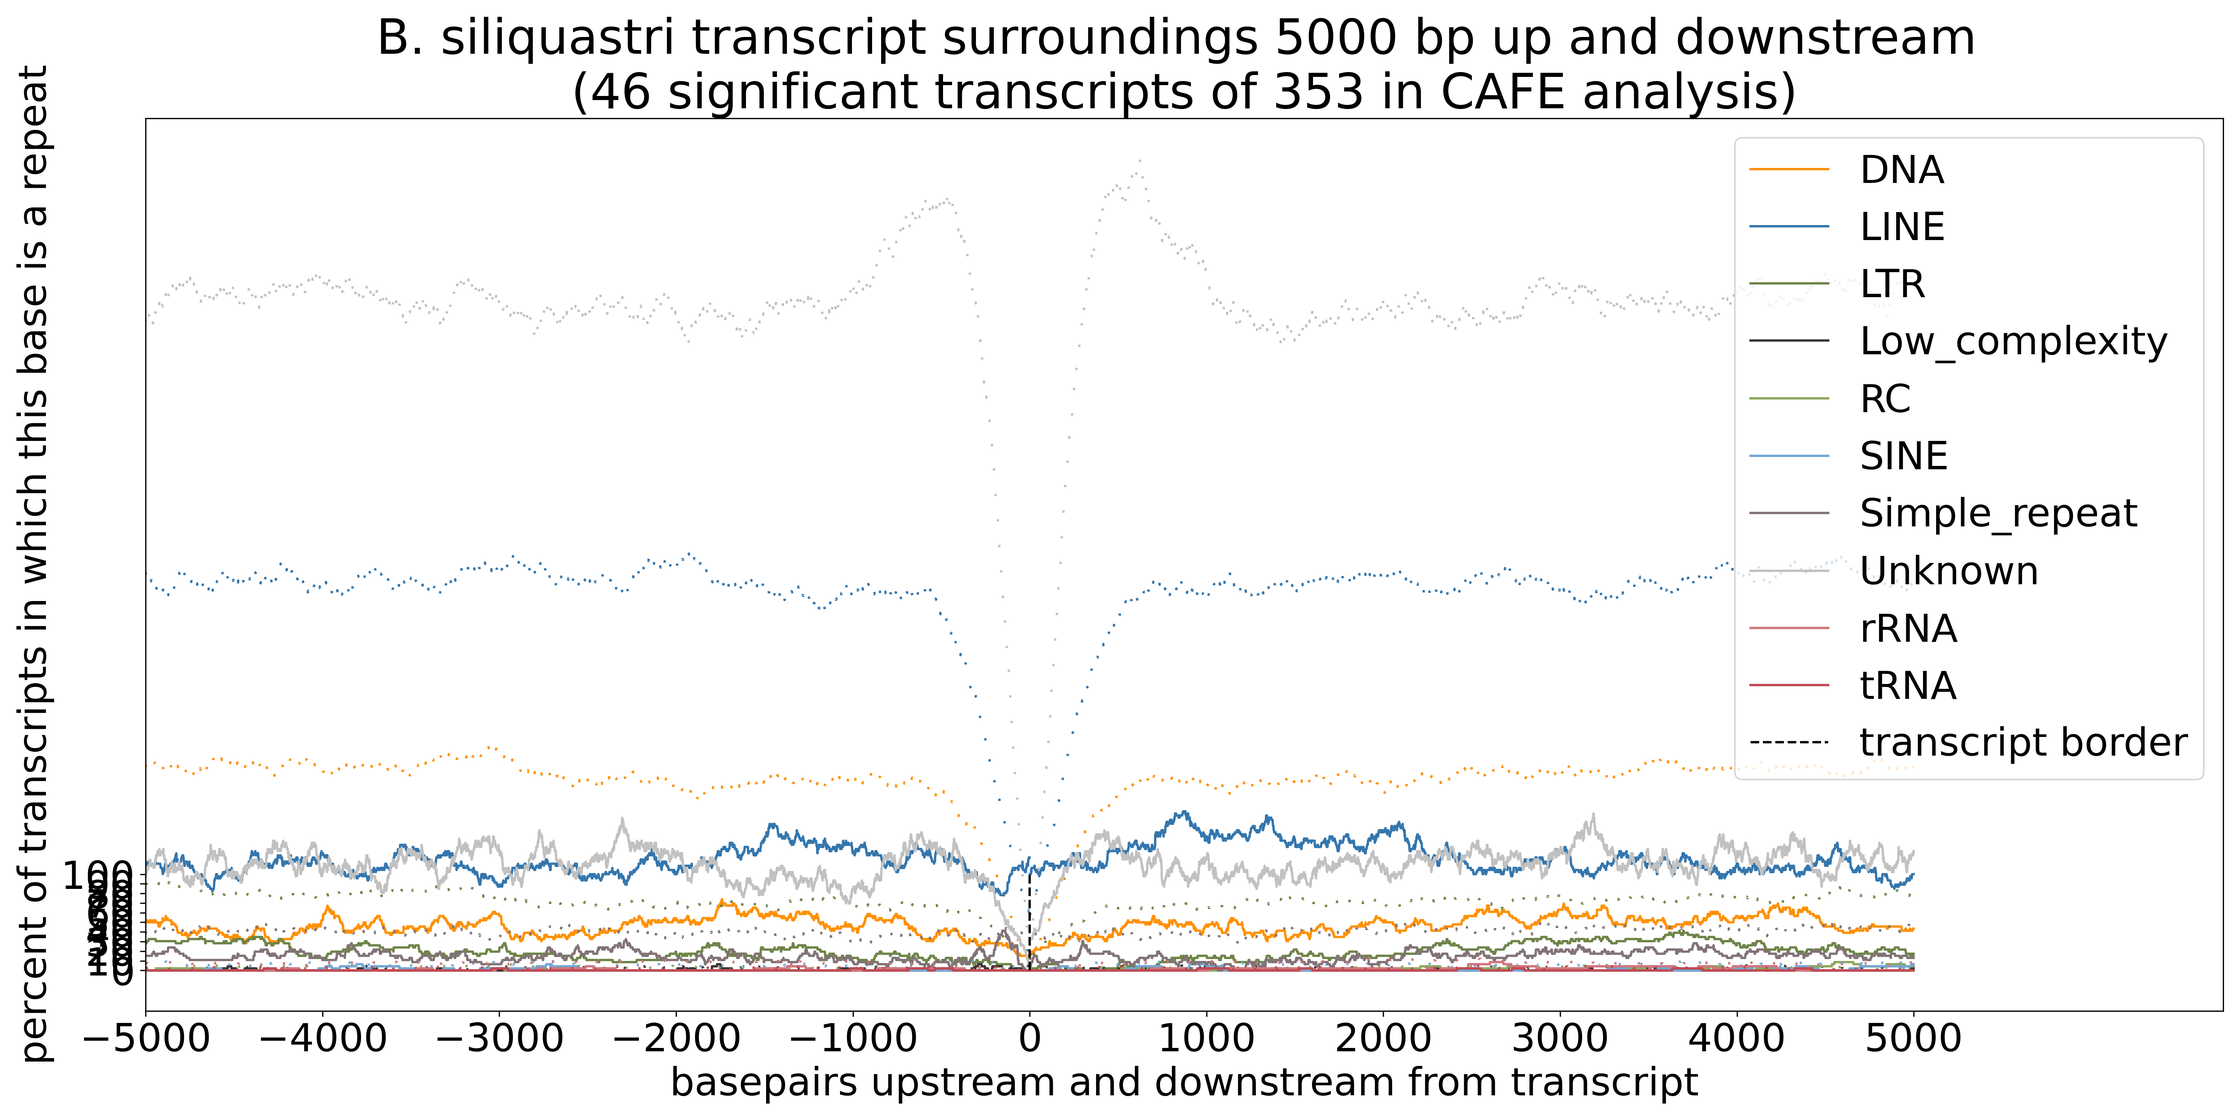
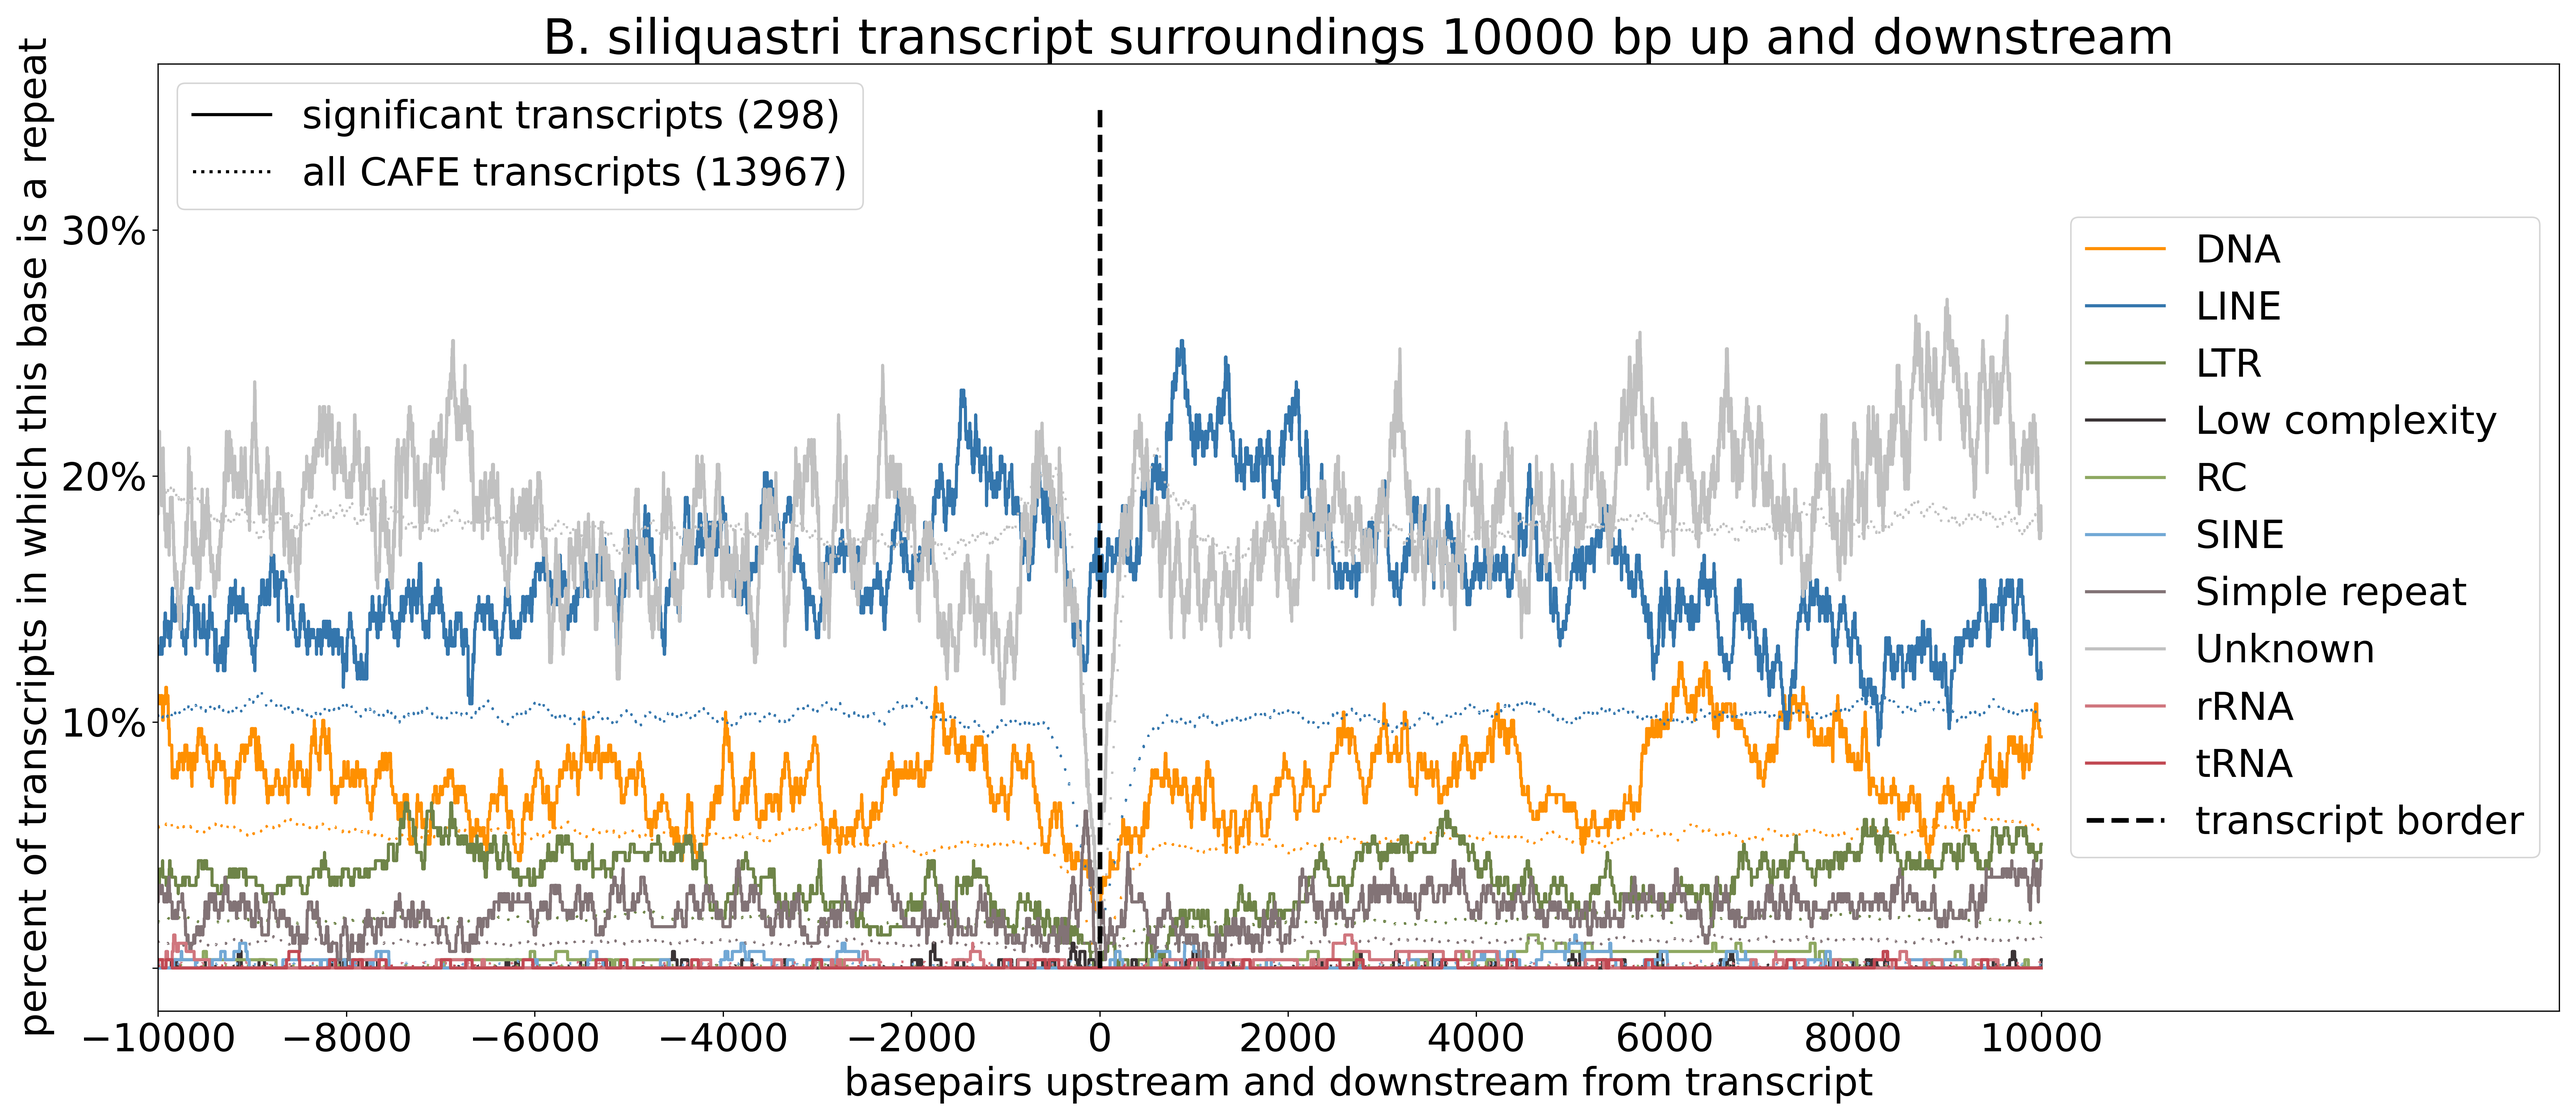
fix legend plotting

diff --git a/src/ReVis/ReVis_transcript_surroundings.py b/src/ReVis/ReVis_transcript_surroundings.py
@@ -224,9 +224,10 @@ def plot_TE_abundance(before_filepath:str, after_filepath:str, sig_transcripts:i
 
     fs = 25 # set font size
     if legend:
-        fig, ax = plt.subplots(1, 1, figsize=(20, 10))
+        fig, ax = plt.subplots(1, 1, figsize=(23, 10))
     else:
-        fig, ax = plt.subplots(1, 1, figsize=(20, 12))
+        fig, ax = plt.subplots(1, 1, figsize=(21, 12))
+
     rep_classes = list(before_dict.keys())
     num_bp = len(before_dict[rep_classes[0]])
     x_before = range(-num_bp, 0)
@@ -242,8 +243,9 @@ def plot_TE_abundance(before_filepath:str, after_filepath:str, sig_transcripts:i
         if max_after>max_percentage:
             max_percentage=max_after
 
-        ax.plot(x_before, before_dict[rep_class], label = rep_class, color = colors[rep_class])
-        ax.plot(x_after, after_dict[rep_class], color = colors[rep_class])
+        rep_label = rep_class.replace("_", " ")
+        ax.plot(x_before, before_dict[rep_class], label = rep_label, color = colors[rep_class], linewidth=2)
+        ax.plot(x_after, after_dict[rep_class], color = colors[rep_class], linewidth=2)
         
         if all_before_dict !={} and all_after_dict !={} and all_transcripts!=0:
             max_before = max(all_before_dict[rep_class])
@@ -256,11 +258,11 @@ def plot_TE_abundance(before_filepath:str, after_filepath:str, sig_transcripts:i
             ax.plot(x_before, all_before_dict[rep_class], color = colors[rep_class], linestyle = (0, (1, 10)))                    
             ax.plot(x_after, all_after_dict[rep_class], color = colors[rep_class], linestyle = (0, (1, 10)))                
     
-    max_percentage=int(max_percentage*1.4)
+    max_percentage=int(max_percentage*1.3)
     if max_percentage == 0 or max_percentage>100:
         max_percentage= 100
 
-    plt.vlines(x= 0, ymin=0, ymax=max_percentage, colors="#000000", linestyles="dashed", label="transcript border")
+    plt.vlines(x= 0, ymin=0, ymax=max_percentage, colors="#000000", linestyles="dashed", label="transcript border", linewidth=3)
     plt.xticks(range(-num_bp, num_bp+1, int(num_bp/5)), fontsize = fs)
     plt.yticks(range(0, max_percentage+1, 10), fontsize = fs)
 
@@ -268,28 +270,27 @@ def plot_TE_abundance(before_filepath:str, after_filepath:str, sig_transcripts:i
     species = species.replace("_", ". ")
 
     if legend:
-        ax.set_xlim([-num_bp, num_bp*1.35])
-        plt.legend(loc = "upper right", fontsize = fs)
-        plt.title(f"{species} transcript surroundings {num_bp} bp up and downstream \n({num_sig_transcripts} significant transcripts of {all_transcripts} in CAFE analysis)", fontsize = fs*1.25)
-    else:
+        # plot color legend
+        ax.set_xlim([-num_bp, num_bp*1.55])
+        legend_colors = ax.legend(loc = "center right", fontsize = fs)
+        plt.gca().add_artist(legend_colors)
+        # plt.title(f"{species} transcript surroundings {num_bp} bp up and downstream \n({num_sig_transcripts} significant transcripts of {all_transcripts} in CAFE analysis)", fontsize = fs*1.25)
         
-        solid = Line2D([0], [0], color='black', linestyle='-', linewidth=2)
-        dotted = Line2D([0], [0], color='black', linestyle=':', linewidth=2)
-        handles = [solid, dotted]
-        labels = []
-        # handles.append(mpatches.Patch(fill=False, linestyle=None))
-        # handles.append(mpatches.Patch(fill=False, linestyle=None))
-        labels.append(f"significant transcripts ({num_sig_transcripts})")
-        labels.append(f"all CAFE transcripts ({all_transcripts})")
-        plt.legend(handles, labels, loc = "upper center", fontsize = fs)
-        plt.title(f"{species} transcript surroundings {num_bp} bp up and downstream", fontsize = fs*1.25)
-    
+    # plot dotted/bold legend
+    solid = Line2D([0], [0], color='black', linestyle='-', linewidth=2)
+    dotted = Line2D([0], [0], color='black', linestyle=':', linewidth=2)
+    handles = [solid, dotted]
+    labels = []
+    labels.append(f"significant transcripts ({num_sig_transcripts})")
+    labels.append(f"all CAFE transcripts ({all_transcripts})")
+    plt.legend(handles, labels, loc = "upper left", fontsize = fs)
+
+    plt.title(f"{species} transcript surroundings {num_bp} bp up and downstream", fontsize = fs*1.25)
     plt.xlabel(f"basepairs upstream and downstream from transcript", fontsize = fs)
 
     plt.ylabel(f"percent of transcripts in which this base is a repeat", fontsize = fs)
-    # ax.yaxis.set_major_formatter(FuncFormatter(lambda x, pos: '' if x > 99 and x<1 else f'{int(x)}%'))
+    ax.yaxis.set_major_formatter(FuncFormatter(lambda x, pos: '' if x > 99 or x<1 else f'{int(x)}%'))
     
-
     plt.tight_layout()
     plt.savefig(filename, dpi = 300, transparent = plot_transparent_bg)
     print("Figure saved in the current working directory directory as: "+filename)
